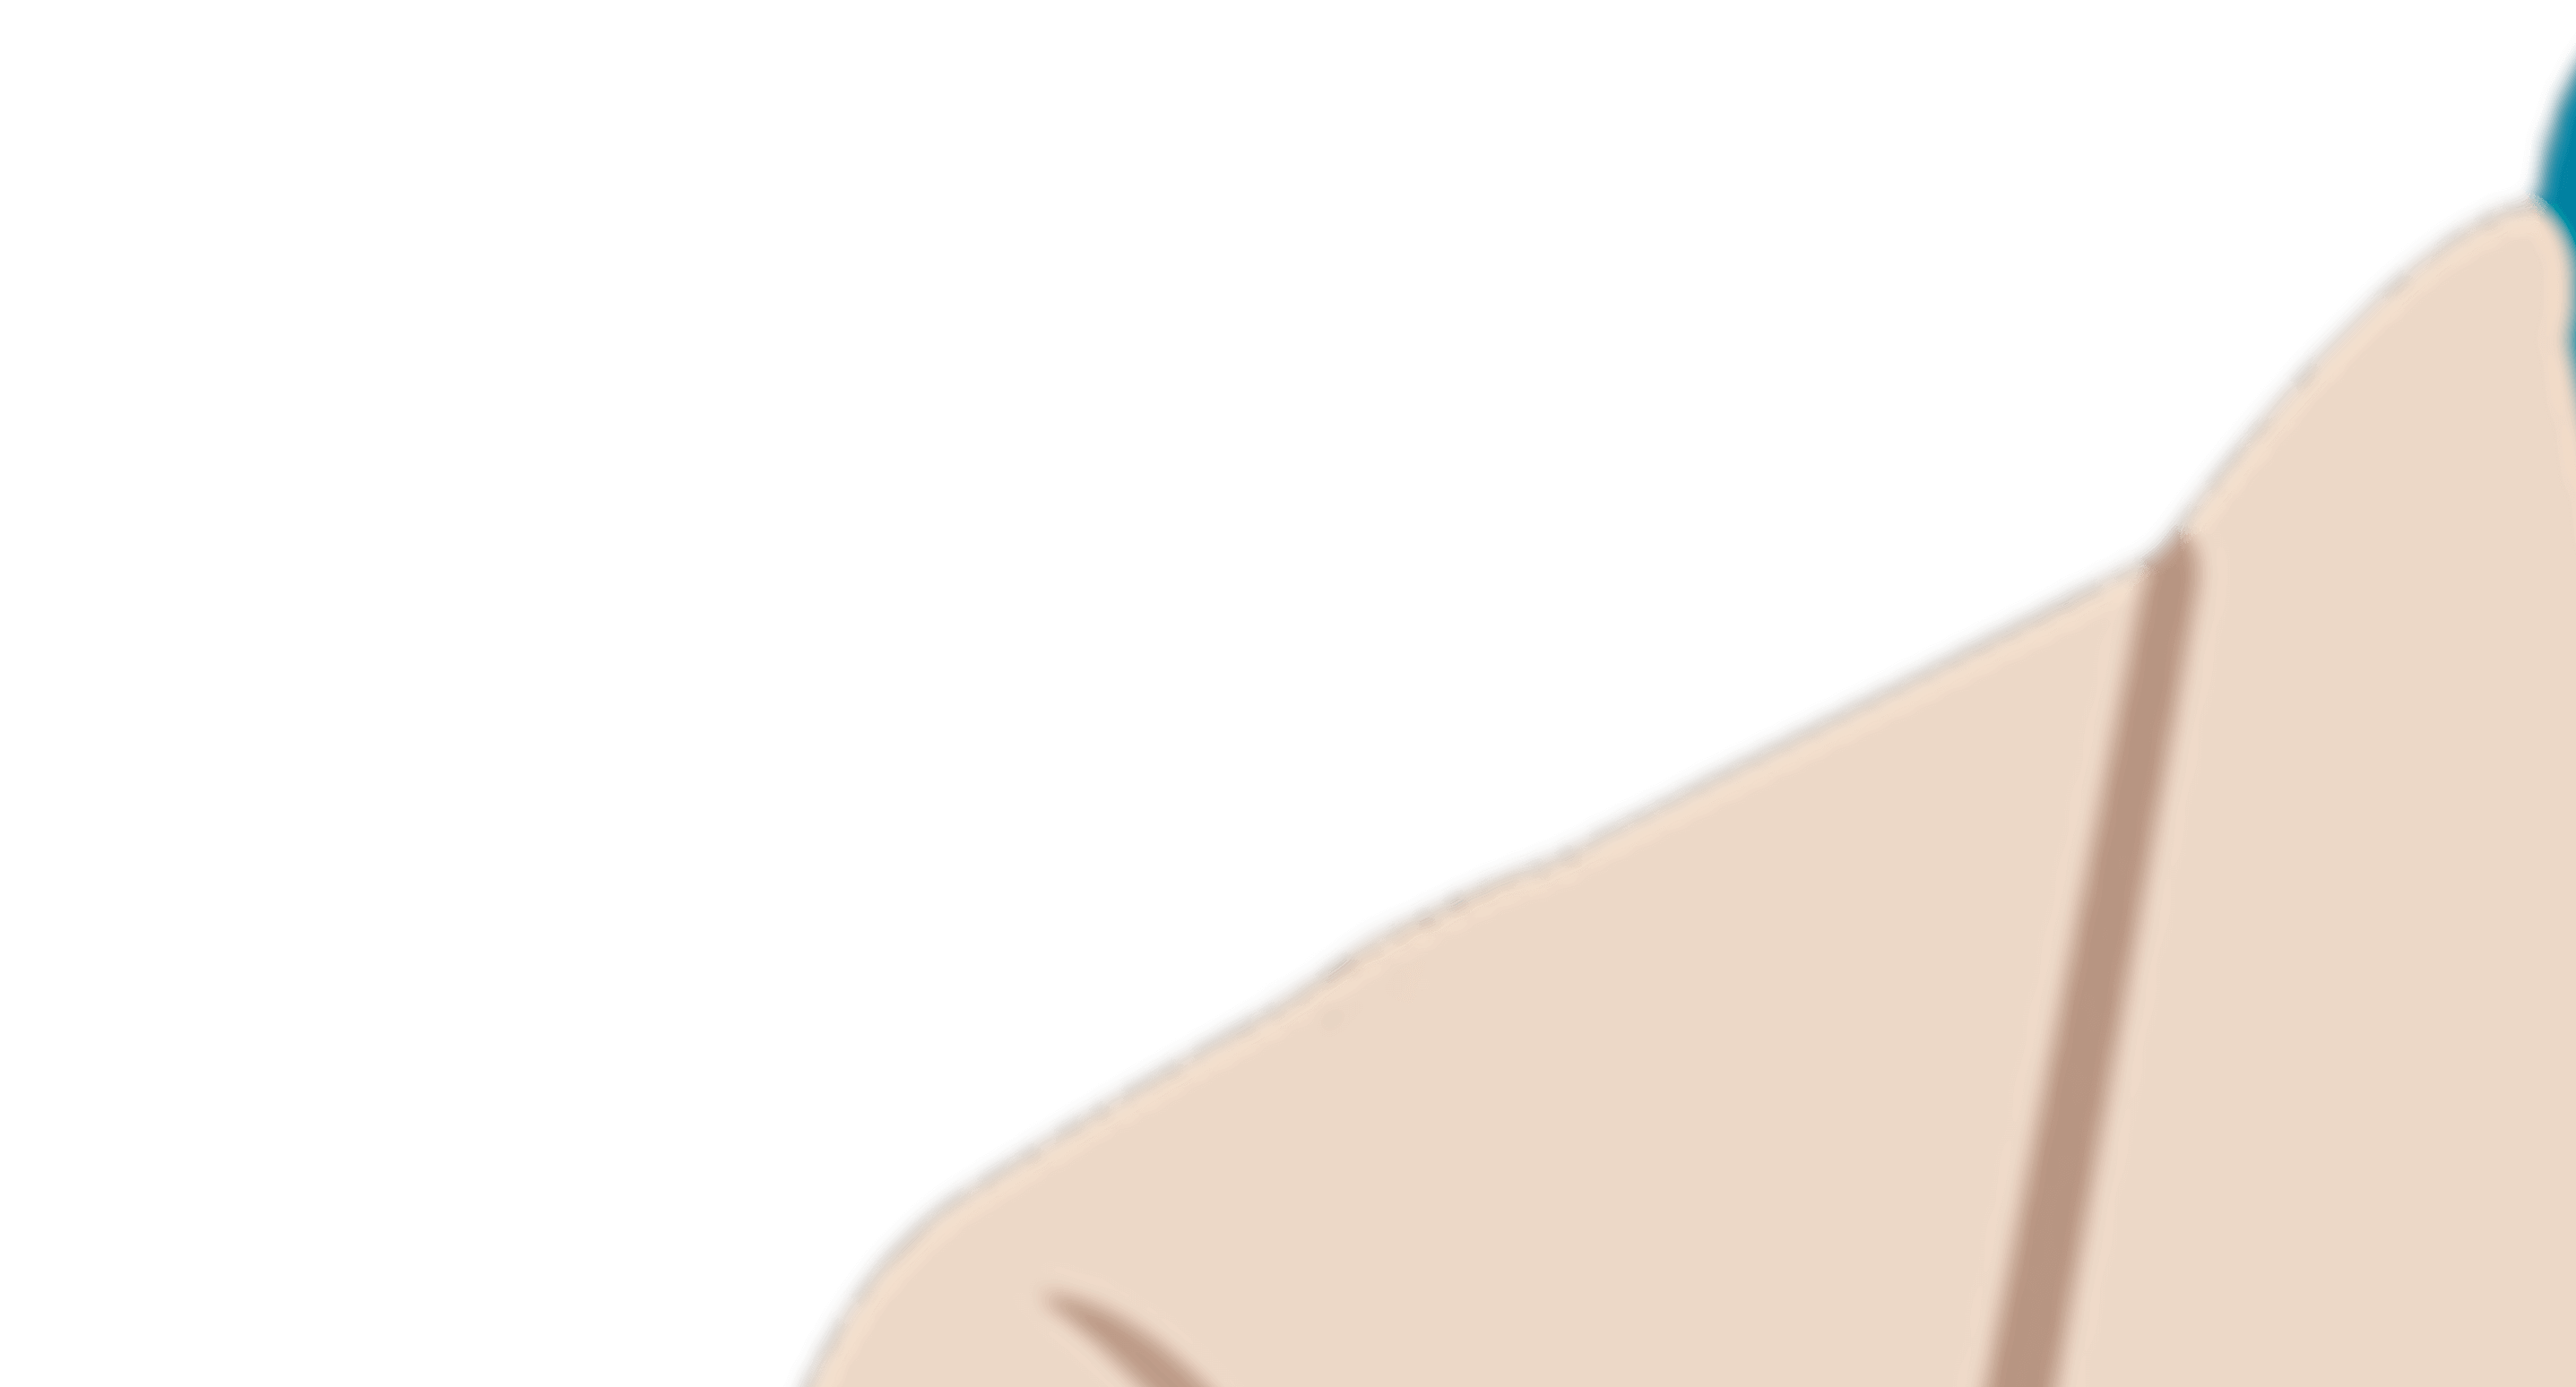
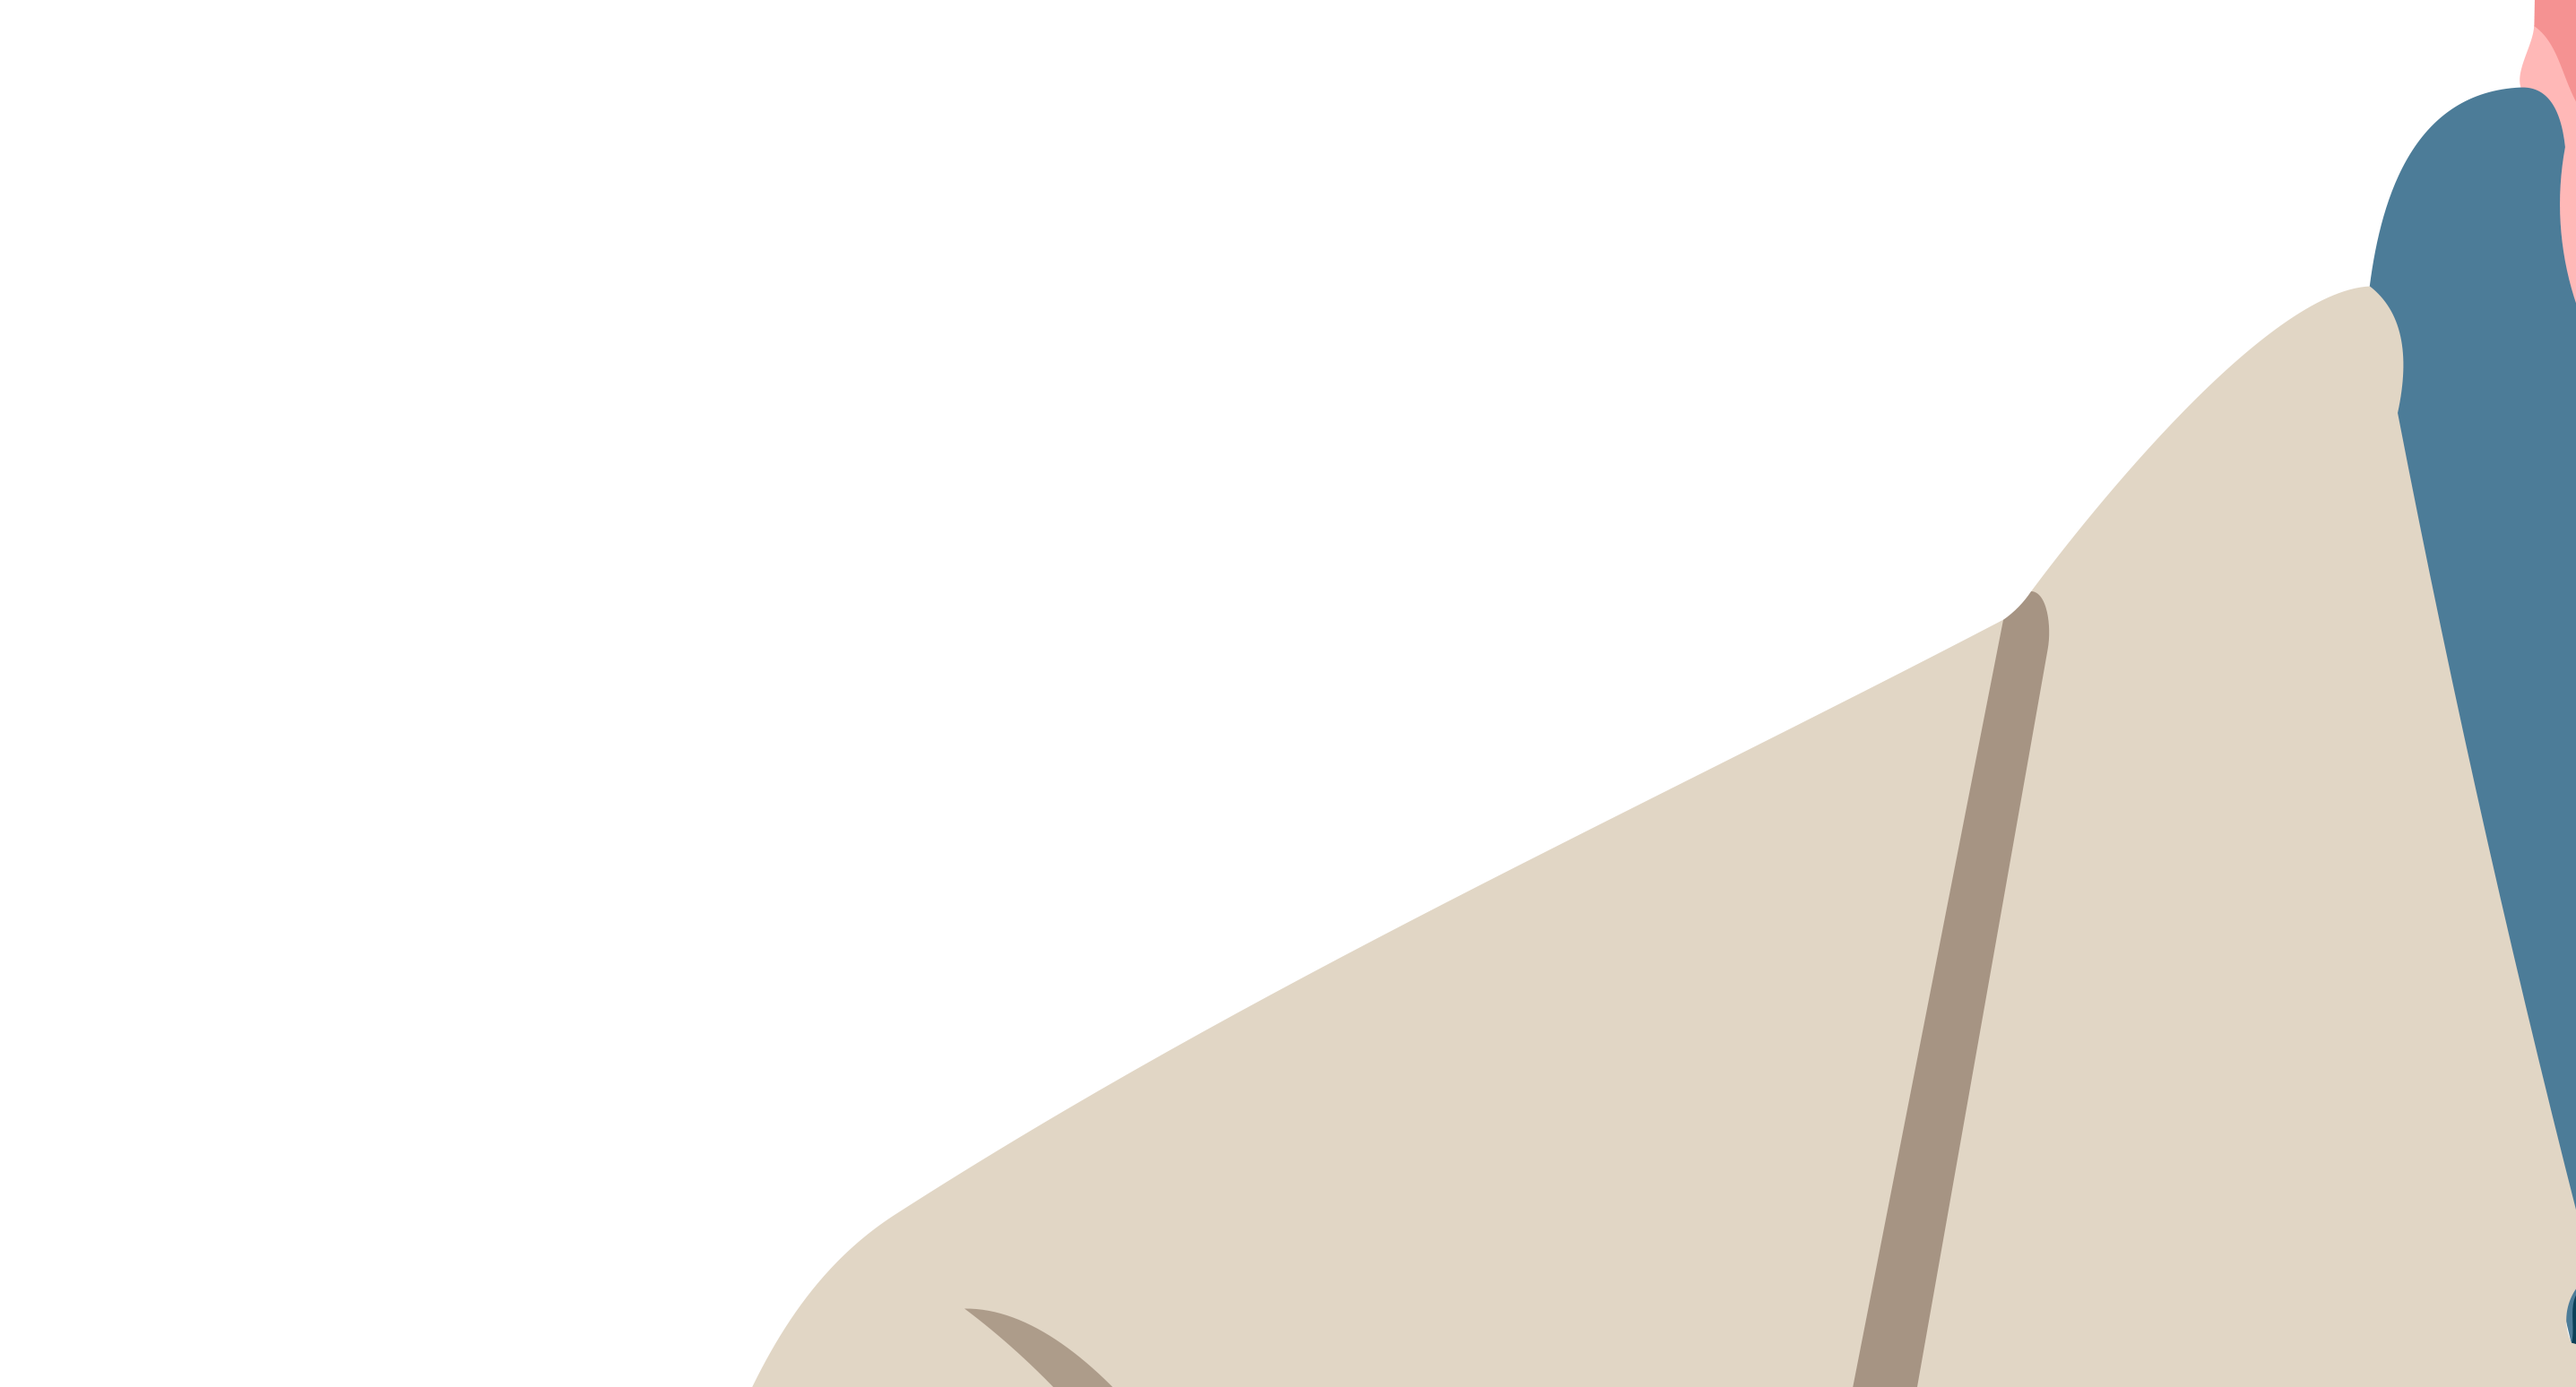
cambio personajes

diff --git a/index.html b/index.html
@@ -4,7 +4,7 @@
     <meta charset="UTF-8">
     <meta name="viewport" content="width=device-width, initial-scale=1.0">
     <title>Un mundo para Bryce</title>
-    <link rel="stylesheet" href="css/style.css?v22">
+    <link rel="stylesheet" href="css/style.css?v23">
 
     <link rel="preconnect" href="https://fonts.googleapis.com">
     <link rel="preconnect" href="https://fonts.gstatic.com" crossorigin>
@@ -225,7 +225,7 @@
                             <div class="character-image">
                                 <img src="./img/personaje-2.png" alt="Sevilla">
                                 <div class="character-miniature" data-next="martin">
-                                    <img src="./img/personaje-4.png" alt="Martin Romaña">
+                                    <img src="./img/personaje-3.png" alt="Martin Romaña">
                                 </div>
                             </div>
                         </div>
@@ -265,7 +265,7 @@
                                 <p class="subtitle">una pequeña rebelión interna</p>
                             </div>
                             <div class="character-image">
-                                <img src="./img/personaje-4.png" alt="Martín Romaña">
+                                <img src="./img/personaje-3.png" alt="Martín Romaña">
                                 <div class="character-miniature" data-next="octavia">
                                     <img src="./img/personaje-7.png" alt="Octavia de Cadiz">
                                 </div>
@@ -309,7 +309,7 @@
                             <div class="character-image">
                                 <img src="./img/personaje-7.png" alt="Octavia de Cádiz">
                                 <div class="character-miniature" data-next="manuco">
-                                    <img src="./img/personaje-3.png" alt="Mañuco miniatura">
+                                    <img src="./img/personaje-5.png" alt="Mañuco miniatura">
                                 </div>
                             </div>
                         </div>
@@ -349,9 +349,9 @@
                                 <p class="subtitle">entre la expectativa familiar y el deseo propio</p>
                             </div>
                             <div class="character-image">
-                                <img src="./img/personaje-3.png" alt="Mañuco">
+                                <img src="./img/personaje-5.png" alt="Mañuco">
                                 <div class="character-miniature" data-next="manongo">
-                                    <img src="./img/personaje-5.png" alt="Manongo Sterne miniatura">
+                                    <img src="./img/personaje-4.png" alt="Manongo Sterne miniatura">
                                 </div>
                             </div>
                         </div>
@@ -391,7 +391,7 @@
                                 <p class="subtitle">un testigo de la decadencia</p>
                             </div>
                             <div class="character-image">
-                                <img src="./img/personaje-5.png" alt="Manongo Sterne">
+                                <img src="./img/personaje-4.png" alt="Manongo Sterne">
                             </div>
                         </div>
                         <div class="character-right">

diff --git a/css/style.css b/css/style.css
@@ -304,8 +304,8 @@ body {
 }
 
 #section-martin .character-miniature{
-    left: 30%;
-    top: 29%;            
+    left: 23%;
+    top: 34%;      
 }
 
 #section-octavia .character-miniature{
@@ -314,8 +314,8 @@ body {
 }
 
 #section-manuco .character-miniature{
-    left: 21%;
-    top: 34%;            
+    left: 28%;
+    top: 32%;            
 }
 
 
@@ -1196,7 +1196,7 @@ body {
 }
 
 .hombro-5{
-    background: url(../img/hombro-4.png) no-repeat bottom center;
+    background: url(../img/hombro-6.png) no-repeat bottom center;
     background-size: cover;
     height: 100vh;
     position: absolute;
@@ -1214,7 +1214,7 @@ body {
 }
 
 .hombro-7{
-    background: url(../img/hombro-5.png) no-repeat bottom center;
+    background: url(../img/hombro-4.png) no-repeat bottom center;
     background-size: cover;
     height: 100vh;
     position: absolute;
